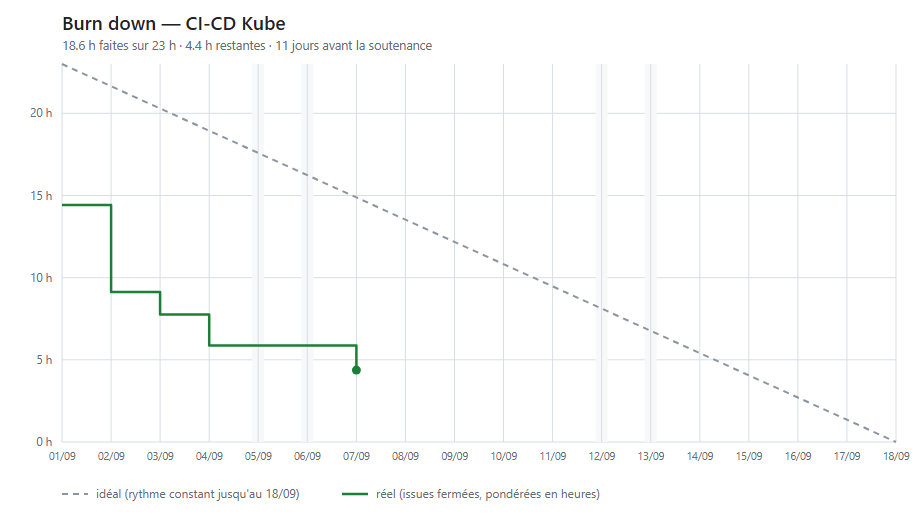
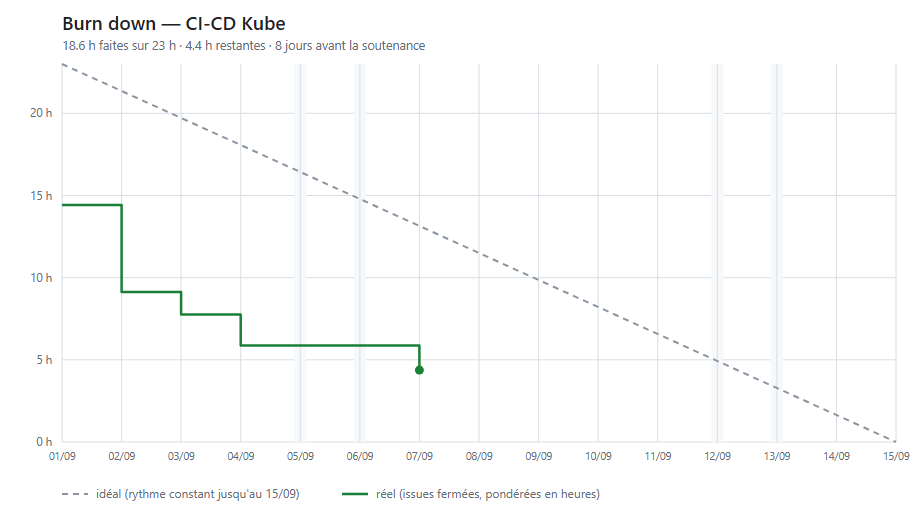
chore: cale le burn down sur la date de demo du 15 septembre

diff --git a/scripts/burndown.py b/scripts/burndown.py
@@ -8,7 +8,7 @@ from datetime import date, datetime, timedelta
 
 REPO = "ArthurDescourvieres/ci-cd-kube"
 START = date(2026, 9, 1)
-END = date(2026, 9, 18)  # soutenance
+END = date(2026, 9, 15)  # demo devant le formateur
 
 LOTS = [
     ("0 - Setup",         1,  3,  1.0),
@@ -145,7 +145,7 @@ def svg(total, serie):
     s.append(f'<line x1="{M["l"]}" y1="{ly}" x2="{M["l"]+26}" y2="{ly}" '
              f'stroke="{IDEAL}" stroke-width="2" stroke-dasharray="6 5"/>')
     s.append(f'<text x="{M["l"]+34}" y="{ly+4}" font-size="12" fill="{MUTED}">'
-             f'idéal (rythme constant jusqu\'au 18/09)</text>')
+             f'idéal (rythme constant jusqu\'au {END:%d/%m})</text>')
     s.append(f'<line x1="{M["l"]+280}" y1="{ly}" x2="{M["l"]+306}" y2="{ly}" '
              f'stroke="{ACTUAL}" stroke-width="2.5"/>')
     s.append(f'<text x="{M["l"]+314}" y="{ly+4}" font-size="12" fill="{MUTED}">'
